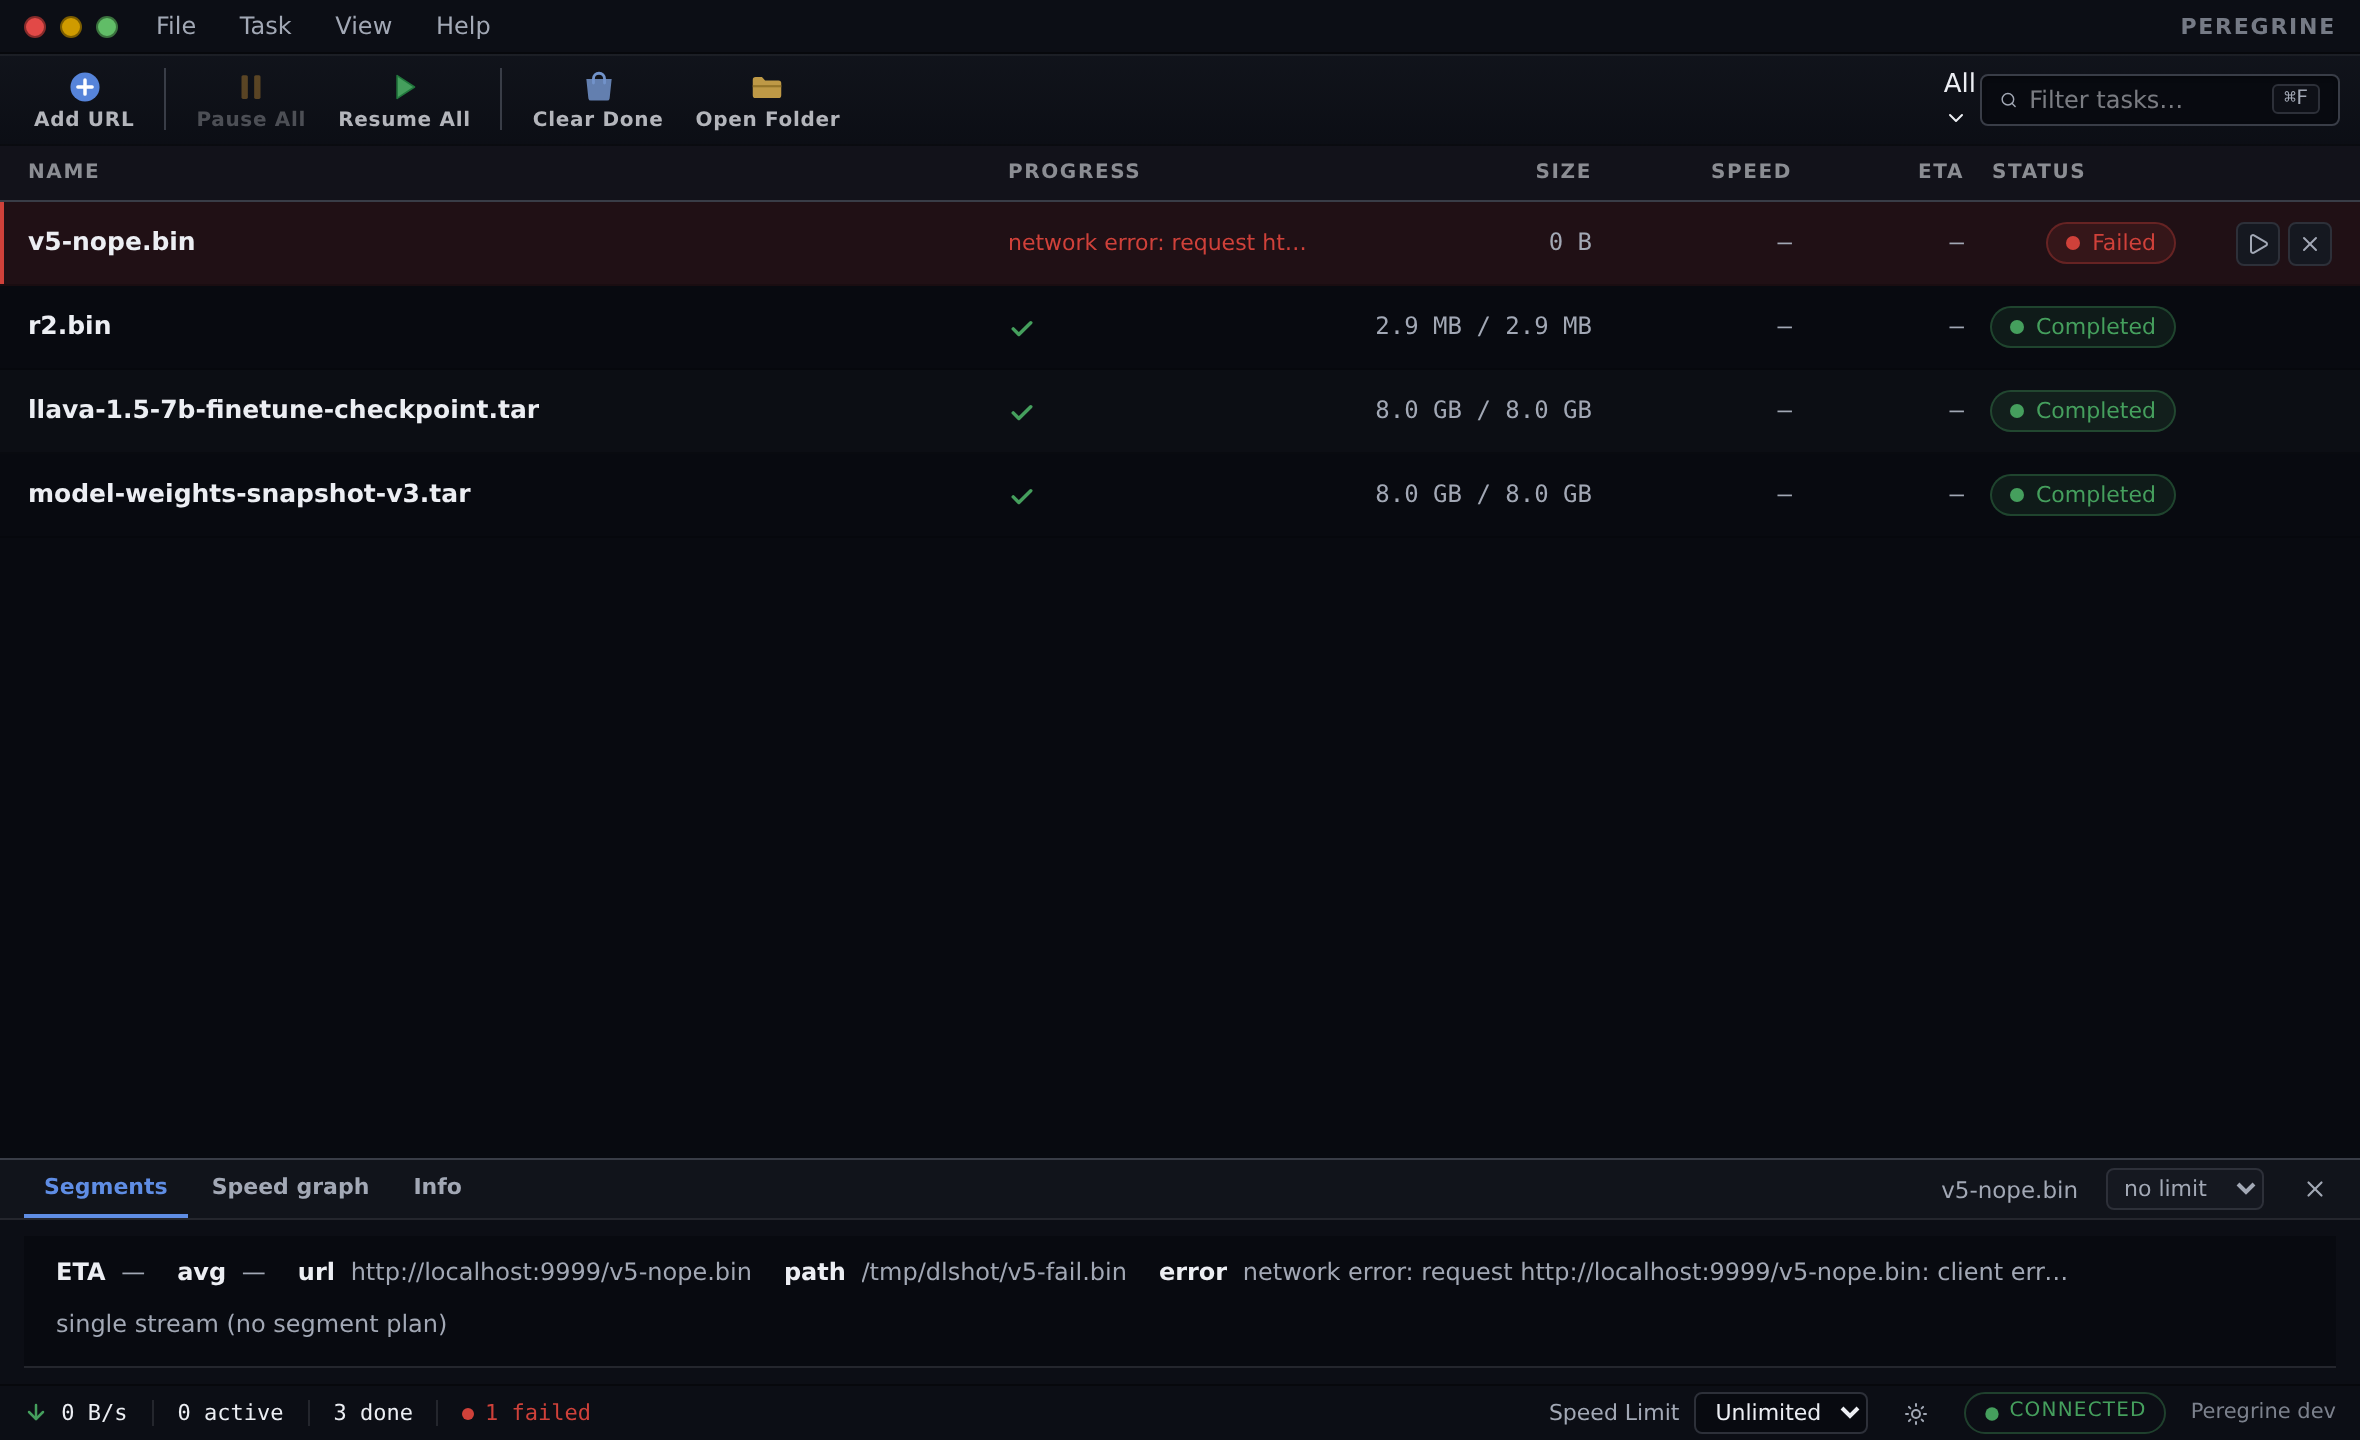
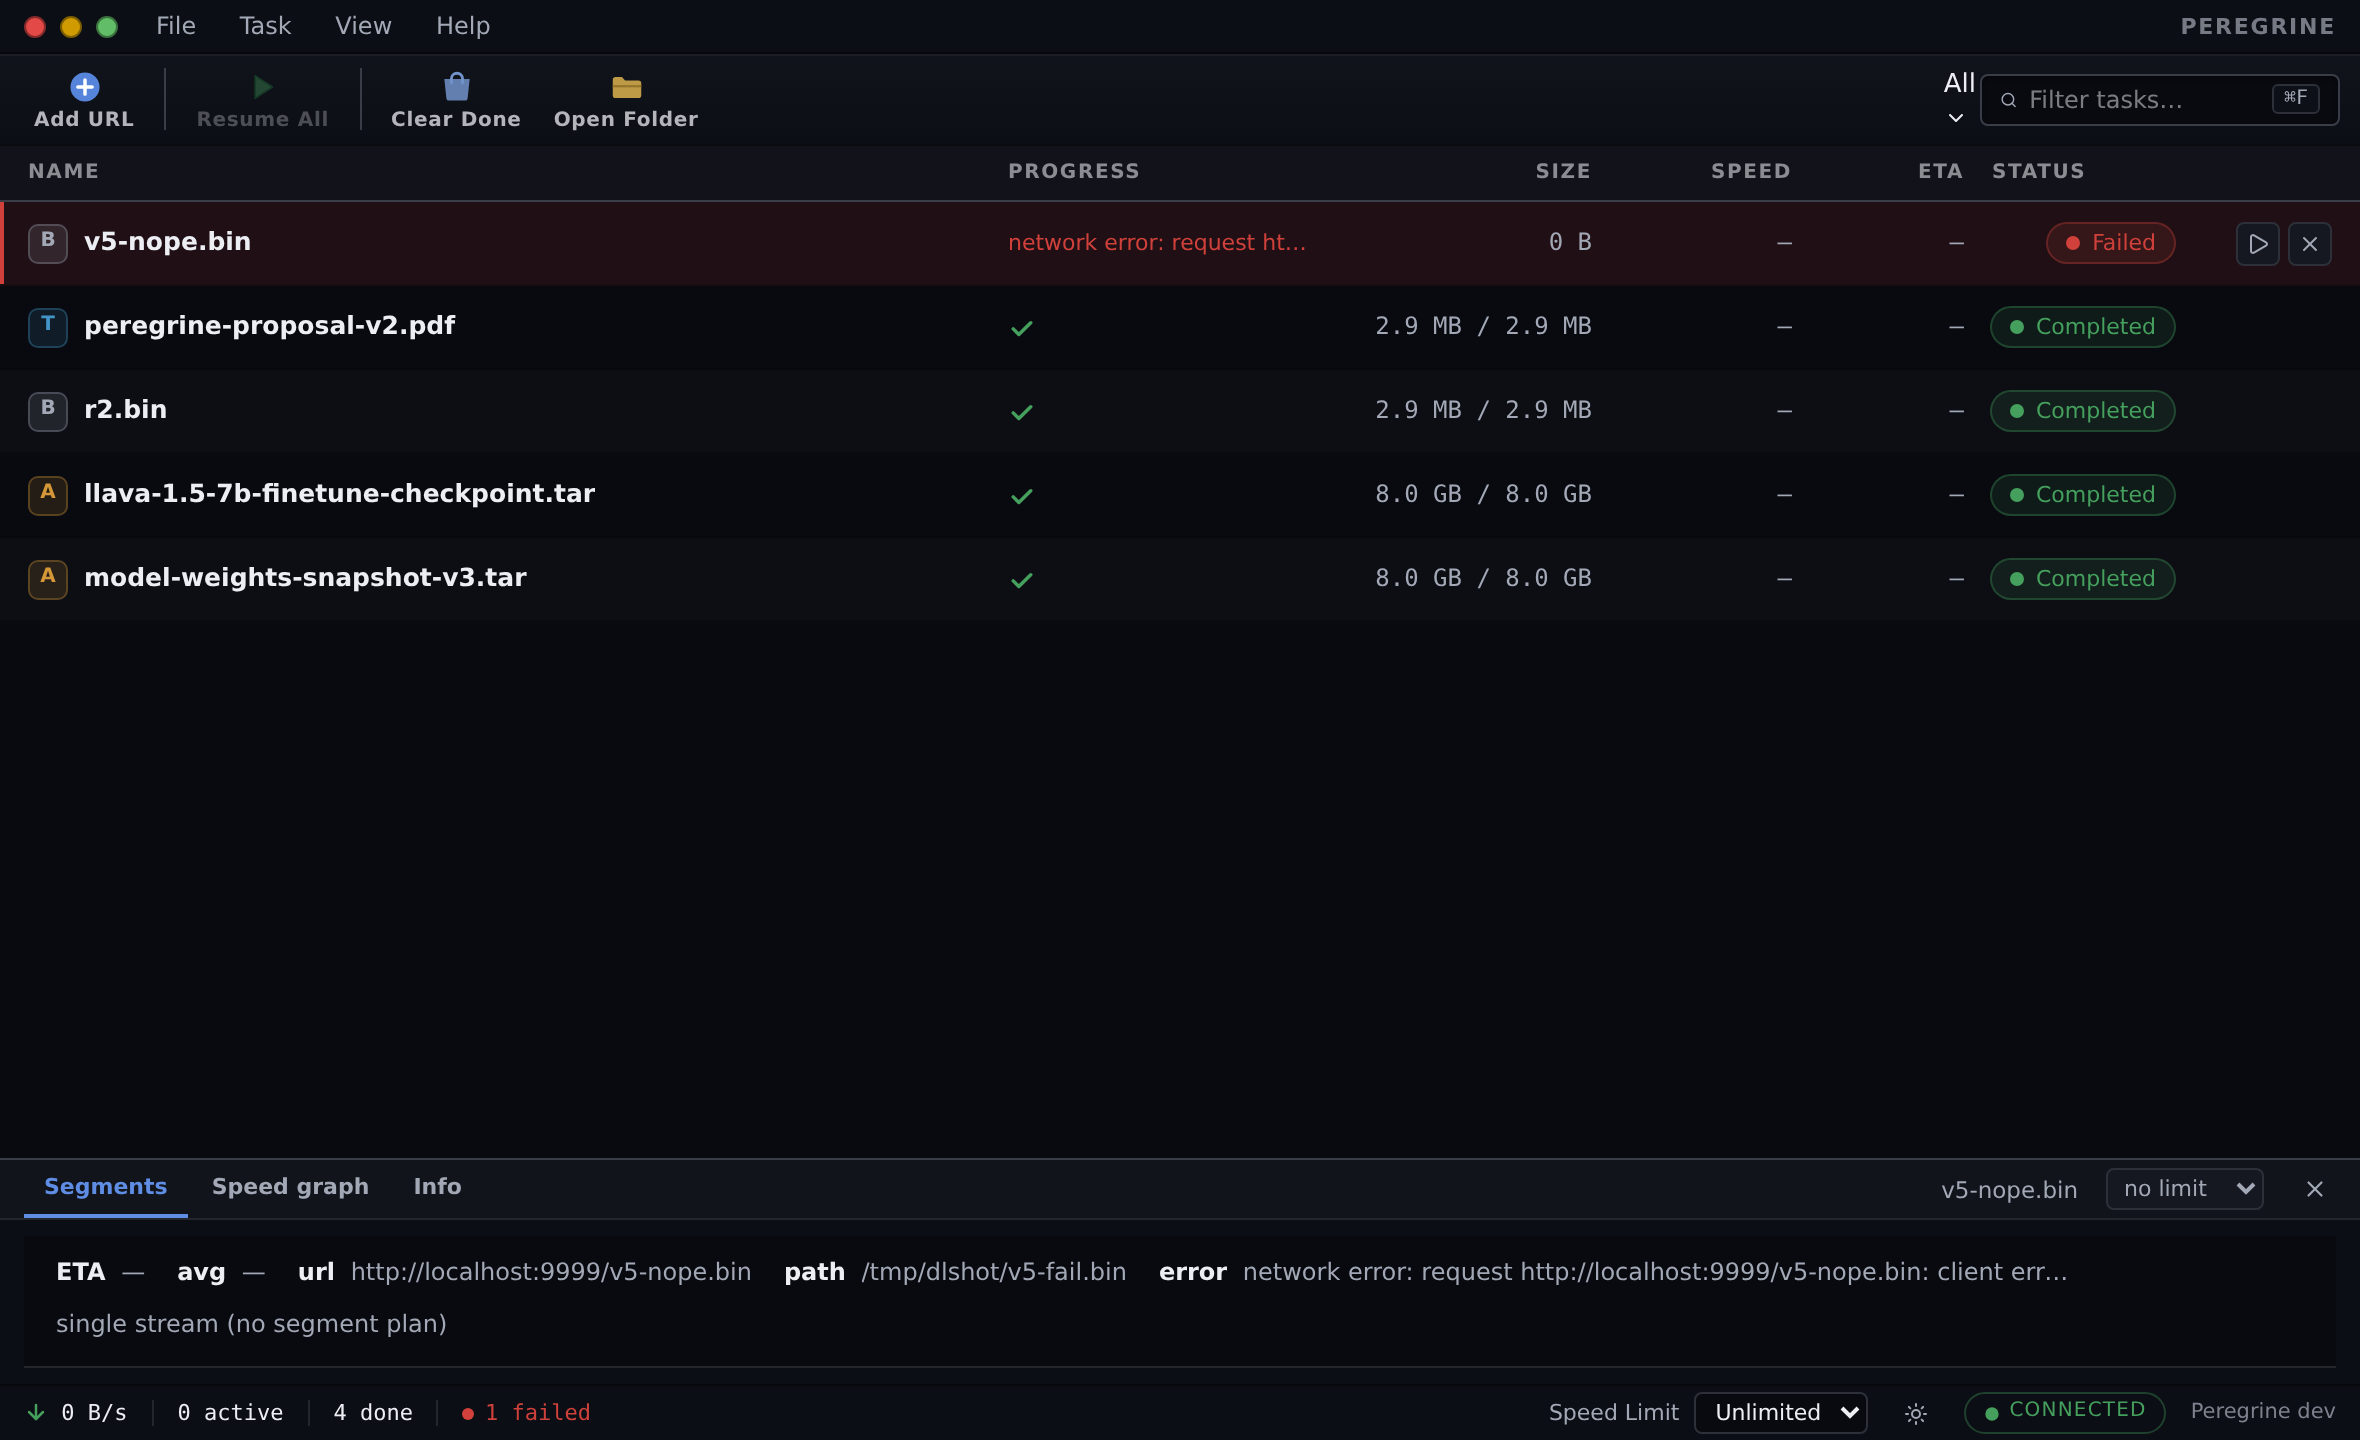
V5-b: polish — file-type glyphs, smart toolbar toggle, j/k nav
- TaskRow: 20px file-kind glyph tile (A/V/D/I/B) before the name,
  tinted per type (archive/video/audio/image/doc/bin) — scannable
  color+shape without a full icon set
- Toolbar: Pause All / Resume All merged into one smart button
  (context-dependent, disabled when nothing to resume)
- App: j/k (and ↑/↓) walk the visible list, selection scrolls into
  view; documented in the shortcuts sheet
- StatusBar: failed counter drops the pill chrome for a quiet red
  dot + count
- Detail drawer: per-task limit control moved out of the fact strip
- light theme: accent/ok/warn/err chroma up, failed hairline calmed
  to 35%; VLM dark 8.5 (matches mock), light 7.5

diff --git a/apps/desktop/src/lib/TaskRow.svelte b/apps/desktop/src/lib/TaskRow.svelte
@@ -13,6 +13,27 @@
   import type { TaskView } from './store.svelte';
   import { Pause, Play, X } from '@lucide/svelte';
 
+  // file-type glyph: one 10px letter tile (A/V/I/D/⬢/?) — cheaper
+  // and calmer than a full icon set, scannable by color + shape.
+  const FILE_KINDS: Record<string, { ch: string; color: string }> = {
+    archive: { ch: 'A', color: 'var(--warn)' }, // zip tar gz 7z
+    video: { ch: 'V', color: 'var(--err)' }, // mp4 mkv avi
+    audio: { ch: 'D', color: 'var(--accent)' }, // mp3 flac
+    image: { ch: 'I', color: 'var(--ok)' }, // png jpg svg
+    doc: { ch: 'T', color: 'var(--info)' }, // pdf epub txt md
+    bin: { ch: 'B', color: 'var(--dim)' }, // exe iso bin dat
+  };
+  const kind = $derived.by(() => {
+    const ext = name.split('.').pop()?.toLowerCase() ?? '';
+    if (['zip', 'tar', 'gz', '7z', 'rar', 'xz', 'bz2'].includes(ext)) return FILE_KINDS.archive;
+    if (['mp4', 'mkv', 'avi', 'mov', 'webm', 'flv'].includes(ext)) return FILE_KINDS.video;
+    if (['mp3', 'flac', 'wav', 'ogg', 'm4a', 'opus'].includes(ext)) return FILE_KINDS.audio;
+    if (['png', 'jpg', 'jpeg', 'gif', 'svg', 'webp', 'bmp'].includes(ext)) return FILE_KINDS.image;
+    if (['pdf', 'epub', 'txt', 'md', 'doc', 'docx', 'mobi'].includes(ext)) return FILE_KINDS.doc;
+    if (['exe', 'msi', 'iso', 'bin', 'dat', 'dmg', 'AppImage'].includes(ext)) return FILE_KINDS.bin;
+    return null;
+  });
+
   let {
     task,
     daemon,
@@ -92,7 +113,12 @@
           }
         }}
       >
-        <span class="c name" title={name}>{name}</span>
+        <span class="c namecell">
+          {#if kind}
+            <span class="ftype" aria-hidden="true" style="--k: {kind.color}">{kind.ch}</span>
+          {/if}
+          <span class="name" title={name}>{name}</span>
+        </span>
 
         <span class="c progress" aria-hidden="true">
           {#if task.status === 'completed'}
@@ -212,10 +238,11 @@
     box-shadow: inset 2px 0 0 var(--err);
   }
   /* light: err-tinted rows read as pastel pink on white; a red
-   * hairline carries 'failed' without painting the row. */
+   * hairline carries 'failed' without painting the row — keep the
+   * hairline faint (35%) so it reads as a cue, not a siren. */
   :root[data-theme='light'] .row[data-status='failed'] {
     background: transparent;
-    box-shadow: inset 2px 0 0 color-mix(in oklch, var(--err) 55%, transparent);
+    box-shadow: inset 2px 0 0 color-mix(in oklch, var(--err) 35%, transparent);
   }
   :root[data-theme='light'] .row[data-status='failed'].selected {
     background: color-mix(in oklch, var(--err) 8%, transparent);
@@ -227,6 +254,25 @@
     white-space: nowrap;
     overflow: hidden;
     text-overflow: ellipsis;
+  }
+  .namecell {
+    display: flex;
+    align-items: center;
+    min-width: 0;
+  }
+  .ftype {
+    width: 20px;
+    height: 20px;
+    border-radius: 5px;
+    flex: none;
+    display: grid;
+    place-items: center;
+    font-size: 10px;
+    font-weight: 700;
+    color: var(--k);
+    background: color-mix(in srgb, var(--k) 14%, transparent);
+    border: 1px solid color-mix(in srgb, var(--k) 30%, transparent);
+    margin-right: 8px;
   }
   .name {
     font-weight: 550;

diff --git a/apps/desktop/src/App.svelte b/apps/desktop/src/App.svelte
@@ -118,6 +118,7 @@
     const c = {
       all: store.list.length,
       active: 0,
+      paused: 0,
       completed: 0,
       failed: 0,
       categories: {} as Record<Category, number>,
@@ -125,6 +126,7 @@
     for (const t of store.list) {
       if (t.status === 'completed') c.completed++;
       else if (t.status === 'failed') c.failed++;
+      else if (t.status === 'paused') c.paused++;
       else c.active++;
       const cat = categorize(t.url);
       c.categories[cat] = (c.categories[cat] ?? 0) + 1;
@@ -471,6 +473,31 @@
       return;
     }
     if (paletteOpen || helpOpen || showAdd) return; // one overlay owns the keyboard
+    // V5: j/k (and arrows) walk the visible list; Enter/→ open the
+    // drawer. Plain-list navigation, Gmail/GitHub class.
+    if (e.key === 'j' || e.key === 'k' || e.key === 'ArrowDown' || e.key === 'ArrowUp') {
+      const el = e.target as HTMLElement | null;
+      if (el?.closest('button, [role="button"], a, select, option, input, [role="menuitem"]')) {
+        return; // arrows live in those widgets (menus, selects)
+      }
+      e.preventDefault();
+      if (visible.length === 0) return;
+      const idx = visible.findIndex((t) => t.id === selectedId);
+      const dir = e.key === 'j' || e.key === 'ArrowDown' ? 1 : -1;
+      const next =
+        idx < 0
+          ? (dir === 1 ? 0 : visible.length - 1)
+          : Math.min(visible.length - 1, Math.max(0, idx + dir));
+      selectedId = visible[next].id;
+      document
+        .querySelector(`.row[data-id="${CSS.escape(selectedId)}"]`)
+        ?.scrollIntoView({ block: 'nearest' });
+      return;
+    }
+    if ((e.key === 'Enter' || e.key === 'ArrowRight') && selectedId) {
+      e.preventDefault();
+      return; // drawer is bound to selection; Enter is a no-op convenience
+    }
     if (e.key === ' ') {
       // Native Space activation on focused interactive elements must
       // survive (R2 P0): buttons/links/menu items own their Space —

diff --git a/apps/desktop/src/lib/Toolbar.svelte b/apps/desktop/src/lib/Toolbar.svelte
@@ -24,7 +24,7 @@
     query?: string;
     statusFilter?: StatusFilter;
     categoryFilter?: Category | null;
-    counts: { active: number; failed: number; completed: number };
+    counts: { active: number; paused: number; failed: number; completed: number };
     hasSelection: boolean;
     onAdd: () => void;
     onPauseAll: () => void;
@@ -60,14 +60,17 @@
 
   <div class="tdiv"></div>
 
-  <button class="tool" onclick={onPauseAll} disabled={counts.active === 0} title="Pause all">
-    <svg viewBox="0 0 24 24" fill="none"><rect x="6" y="4.5" width="4" height="15" rx="1" fill="oklch(72% 0.13 75)"/><rect x="14" y="4.5" width="4" height="15" rx="1" fill="oklch(72% 0.13 75)"/></svg>
-    <span class="lbl">Pause All</span>
-  </button>
-  <button class="tool" onclick={onResumeAll} title="Resume all">
-    <svg viewBox="0 0 24 24" fill="none"><path d="M7 4.8l11 7.2-11 7.2z" fill="oklch(63% 0.13 150)" stroke="oklch(50% 0.12 150)" stroke-width="1" stroke-linejoin="round"/></svg>
-    <span class="lbl">Resume All</span>
-  </button>
+  {#if counts.active > 0}
+    <button class="tool" onclick={onPauseAll} title="Pause all (⇧⌘P)">
+      <svg viewBox="0 0 24 24" fill="none"><rect x="6" y="4.5" width="4" height="15" rx="1" fill="oklch(72% 0.13 75)"/><rect x="14" y="4.5" width="4" height="15" rx="1" fill="oklch(72% 0.13 75)"/></svg>
+      <span class="lbl">Pause All</span>
+    </button>
+  {:else}
+    <button class="tool" onclick={onResumeAll} disabled={counts.paused === 0} title="Resume all (⇧⌘R)">
+      <svg viewBox="0 0 24 24" fill="none"><path d="M7 4.8l11 7.2-11 7.2z" fill="oklch(63% 0.13 150)" stroke="oklch(50% 0.12 150)" stroke-width="1" stroke-linejoin="round"/></svg>
+      <span class="lbl">Resume All</span>
+    </button>
+  {/if}
 
   <div class="tdiv"></div>
 

diff --git a/apps/desktop/src/lib/ShortcutsDialog.svelte b/apps/desktop/src/lib/ShortcutsDialog.svelte
@@ -18,6 +18,7 @@
     {
       title: 'Task (row selected)',
       rows: [
+        ['j / k', 'Move selection down / up'],
         ['Space', 'Pause / resume'],
         ['Del / ⌫', 'Remove (with undo window)'],
         ['Enter', 'Select / expand details'],

diff --git a/apps/desktop/src/lib/Sidebar.svelte b/apps/desktop/src/lib/Sidebar.svelte
@@ -38,6 +38,7 @@
     counts: {
       all: number;
       active: number;
+      paused: number;
       completed: number;
       failed: number;
       categories: Record<Category, number>;
